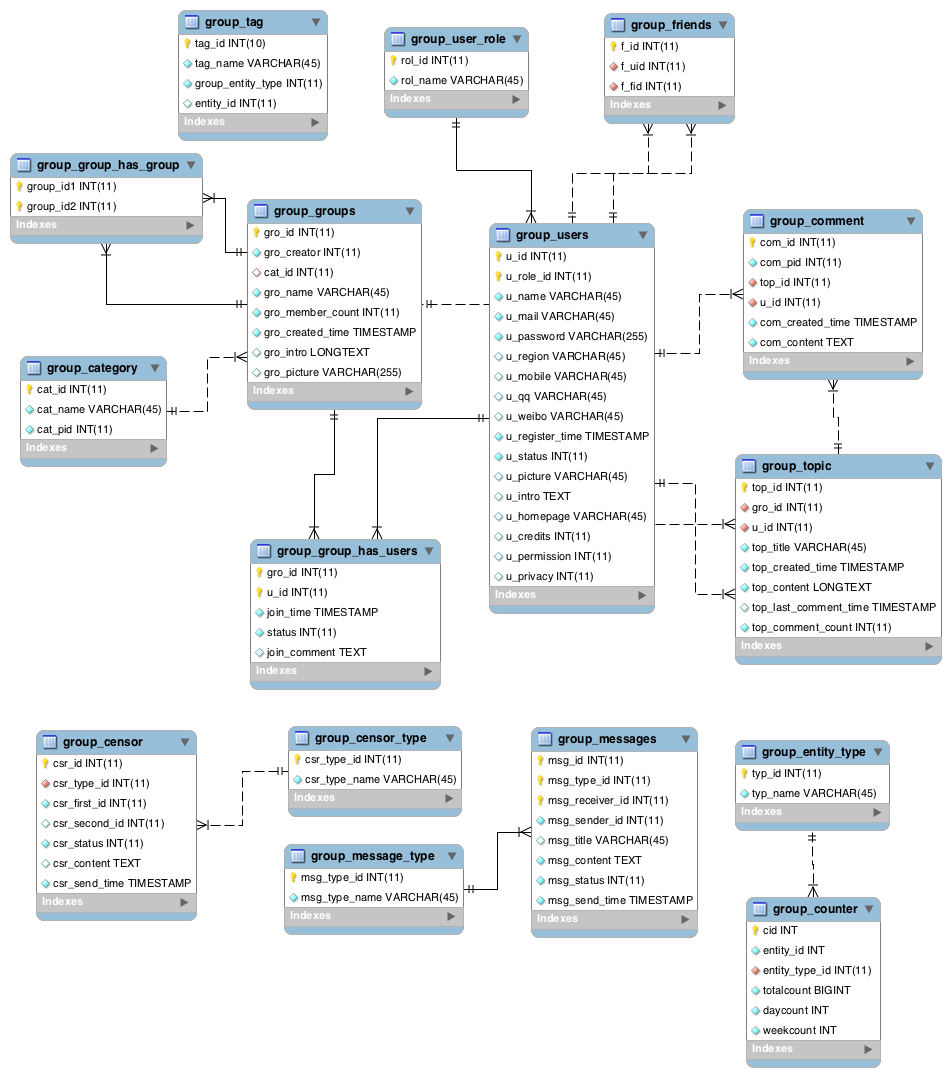
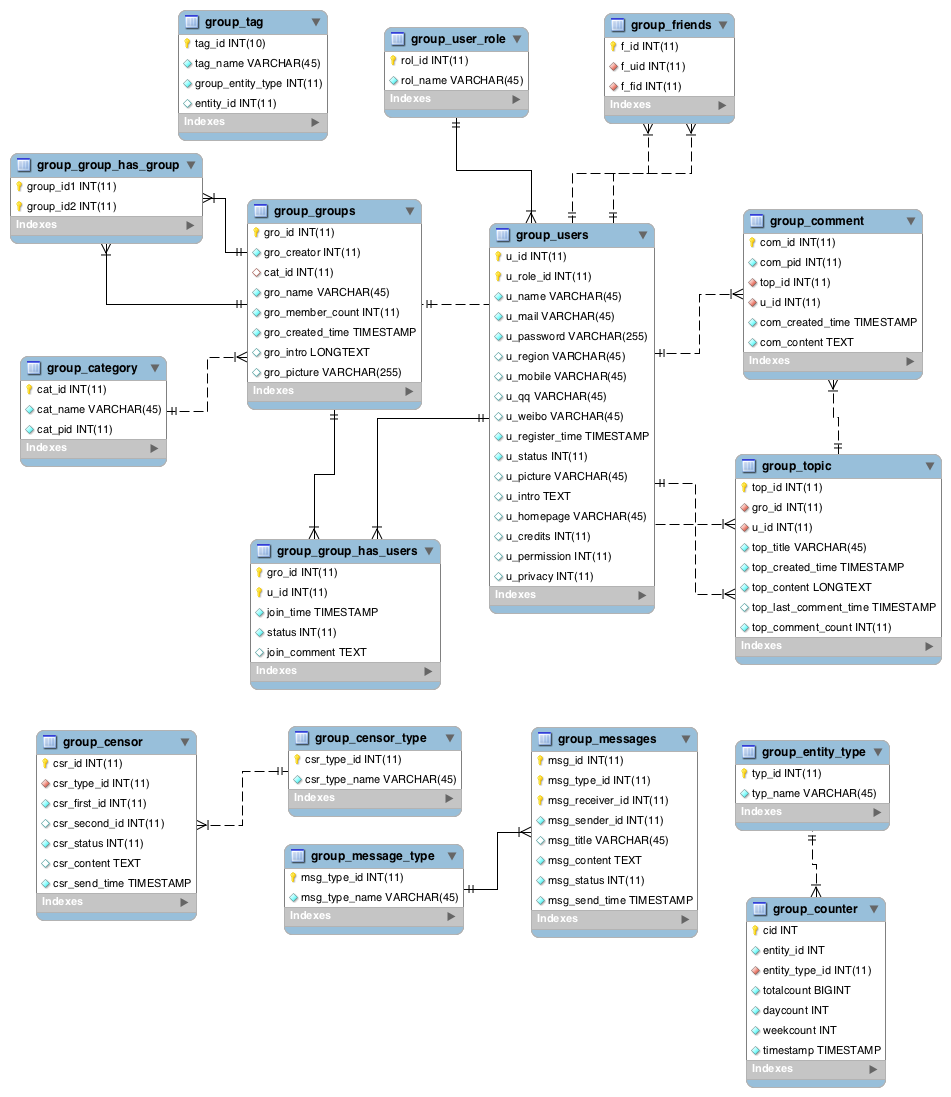
update database model | add post view counter

diff --git a/arch/models/Counter.php b/arch/models/Counter.php
@@ -29,7 +29,8 @@ class Counter extends Data{
         $result = parent::load($id);
         if($result===null) return null;
         $this->entityType = new EntityType();
-        $this->entityType->load($this->entityTypeId);
+        $this->entityType->typeId = $this->entityTypeId;
+        if($this->checkCounter()) $this->update();
         return $this;
     }
 
@@ -43,7 +44,8 @@ class Counter extends Data{
             }
             else{
                 $result[0]->entityType = new EntityType();
-                $result[0]->entityType->load($this->entityTypeId);
+                $result[0]->entityType->typeId = $this->entityTypeId;
+                if($this->checkCounter()) $this->update();
                 return $result[0];
             }
         }
@@ -55,34 +57,42 @@ class Counter extends Data{
             $this->entityTypeId = $entityTypeId;
             $result = $this->find();
             if($result===null||count($result)==0){
-                return false;
+                $this->timestamp = date('Y-m-d H:i:s');
+                $this->totalCount = 1;
+                $this->dayCount = 1;
+                $this->weekCount = 1;
+                $this->insert();
             }
             else{
                 $result = $result[0];
-                foreach($this->columns as $col){
+                foreach($this->columns as $col=>$dbCol){
                     $this->$col = $result->$col;
                 }
                 $this->checkCounter();
                 $this->totalCount++;
                 $this->dayCount++;
                 $this->weekCount++;
+                $this->timestamp = date('Y-m-d H:i:s');
                 $this->update();
-                return true;
             }
         }
     }
 
     public function checkCounter(){
+        $needToUpdate = false;
         if(isset($this->timestamp)){
             $today = date('Y-m-d 00:00:00');
             if($this->timestamp<$today){
                 $this->dayCount = 0;
+                $needToUpdate = true;
             }
             $lastDay = date("Y-m-d",strtotime("$today Sunday"));
             $firstDay = date("Y-m-d 00:00:00",strtotime("$lastDay -6 days"));
             if($this->timestamp<$firstDay){
                 $this->weekCount = 0;
+                $needToUpdate = true;
             }
         }
+        return $needToUpdate;
     }
 } 

diff --git a/arch/controllers/PostController.php b/arch/controllers/PostController.php
@@ -104,11 +104,13 @@ class PostController extends RController {
         }
 
         $topic = new Topic();
-        $topic = $topic->load($topicId);
-        if($topic===null){
+        $result = $topic->load($topicId);
+        if($result===null){
             Rays::app()->page404();
             return;
         }
+
+        $counter = $topic->increaseCounter();
         $topic->user->load();
         $topic->group->load();
 
@@ -123,7 +125,7 @@ class PostController extends RController {
             }
         }
         $this->setHeaderTitle($topic->title);
-        $data = array("topic" => $topic, "commentTree" => $commentTree);
+        $data = array("topic" => $topic, "commentTree" => $commentTree,'counter'=>$counter);
 
         $replyTo = $this->getHttpRequest()->getParam('reply',null);
         if($replyTo&&is_numeric($replyTo)){
@@ -132,7 +134,6 @@ class PostController extends RController {
             $comment->user->load();
             $data['parent'] = $comment;
         }
-
         $this->render("view", $data, false);
 
     }

diff --git a/arch/models/Topic.php b/arch/models/Topic.php
@@ -11,6 +11,8 @@ class Topic extends Data
 
     public $id, $groupId, $userId, $title, $createdTime, $content, $lastCommentTime, $commentCount;
 
+    public static $entityType = 1;
+
     public function __construct()
     {
         $option = array(
@@ -40,6 +42,14 @@ class Topic extends Data
         $this->group = new Group();
         $this->group->id = $this->groupId;
         return $this;
+    }
+
+    public function increaseCounter(){
+        if(isset($this->id)&&$this->id!=''){
+            $counter = new Counter();
+            $counter->increaseCounter($this->id,self::$entityType);
+            return $counter;
+        }
     }
 
     public function getComments()

diff --git a/arch/views/post/view.php b/arch/views/post/view.php
@@ -2,7 +2,8 @@
 <div>
     Post by: <?= RHtmlHelper::linkAction('user', $topic->user->name, 'view', $topic->user->id) ?>
     &nbsp;&nbsp;Post in group: <?= RHtmlHelper::linkAction('group', $topic->group->name, 'detail', $topic->group->id) ?>
-    &nbsp;&nbsp;&nbsp;&nbsp;<?= $topic->createdTime ?>
+    &nbsp;&nbsp;<?=$counter->totalCount?> reads
+    &nbsp;&nbsp;<?= $topic->createdTime ?>
 </div>
 
 <div>
